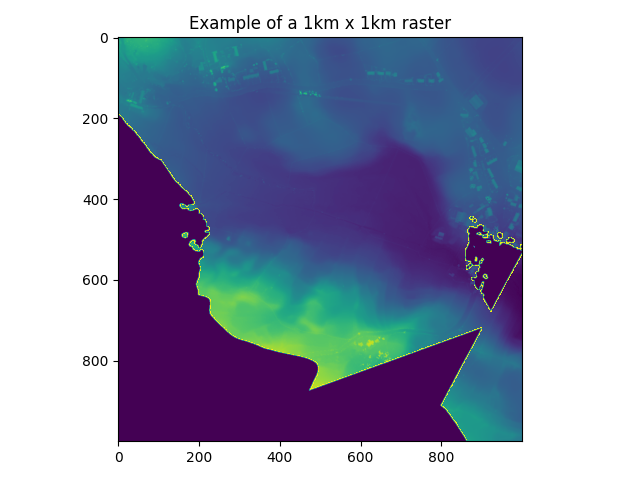
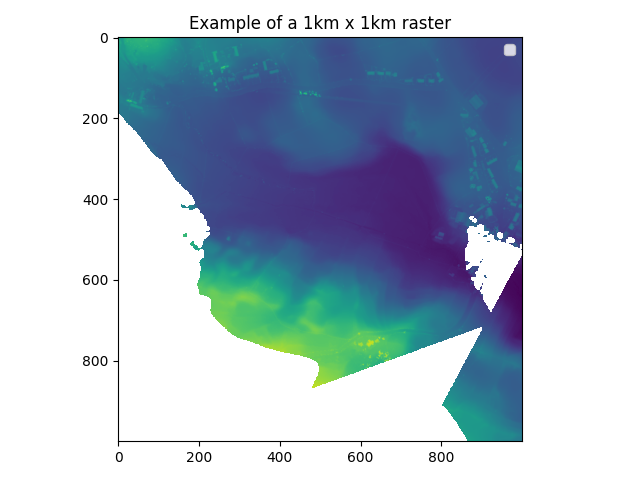
ok still have to publish with org

Changed region(s): [[0.1875, 0.25, 0.75, 0.9375], [0.7188, 0.4375, 0.8125, 0.6562], [0.7812, 0.0938, 0.8125, 0.125]]

diff --git a/_posts/2022-05-06-rasterio-gdal-s3.md b/_posts/2022-05-06-rasterio-gdal-s3.md
@@ -13,87 +13,66 @@ At SpotR, we make heavy use of rasterdata containing gridded height measurements
 <p>
 When working in <code>python</code>, the <a href="https://rasterio.readthedocs.io/en/latest/index.html"><code>rasterio</code></a> package is useful. This package is
 essentially a more pythonic binding to the GDAl library, as explained in their <a href="https://rasterio.readthedocs.io/en/latest/intro.html">
-introduction</a>.
+introduction</a>. The file below was obtained from <a href="https://data.gov.uk/dataset/f0db0249-f17b-4036-9e65-309148c97ce4/national-lidar-programme">data.gov.uk</a> and shows a 1x1km
+patch of height measurements in the UK. The resolution is 1000x1000 pixels,
+every pixel represents the (maximum) height of 1x1m. The lighter dots along the
+top of the image are houses, there are some ragged parts where there is no data.
+In the middle there is a depression, could be a riverbed, and then at the bottom
+the terrain is rising a little.
 </p>
 
 <div class="org-src-container">
-<pre class="src src-python"><span style="color: #b6a0ff;">import</span> rasterio
-<span style="color: #b6a0ff;">import</span> matplotlib.pyplot <span style="color: #b6a0ff;">as</span> plt
-<span style="color: #b6a0ff;">import</span> numpy <span style="color: #b6a0ff;">as</span> np
+<pre class="src src-python"><span style="color: #4f97d7; font-weight: bold;">import</span> rasterio
+<span style="color: #4f97d7; font-weight: bold;">import</span> matplotlib.pyplot <span style="color: #4f97d7; font-weight: bold;">as</span> plt
+<span style="color: #4f97d7; font-weight: bold;">import</span> numpy <span style="color: #4f97d7; font-weight: bold;">as</span> np
 
-<span style="color: #b6a0ff;">with</span> rasterio.<span style="color: #f78fe7;">open</span><span style="color: #ffffff;">(</span><span style="color: #79a8ff;">"/tmp/sd9863_DSM_1M.tiff"</span><span style="color: #ffffff;">)</span> <span style="color: #b6a0ff;">as</span> <span style="color: #00d3d0;">dataset</span>:
-   heights = dataset.read<span style="color: #ffffff;">(</span><span style="color: #00bcff;">1</span><span style="color: #ffffff;">)</span>
+<span style="color: #4f97d7; font-weight: bold;">with</span> rasterio.<span style="color: #4f97d7;">open</span><span style="color: #4f97d7;">(</span><span style="color: #2d9574;">"/tmp/sd9863_DSM_1M.tiff"</span><span style="color: #4f97d7;">)</span> <span style="color: #4f97d7; font-weight: bold;">as</span> <span style="color: #7590db;">dataset</span>:
+   heights = dataset.read<span style="color: #4f97d7;">(</span><span style="color: #a45bad;">1</span><span style="color: #4f97d7;">)</span>
 
-<span style="color: #00d3d0;">fn</span> = <span style="color: #79a8ff;">"images/heights.png"</span>
+<span style="color: #7590db;">fn</span> = <span style="color: #2d9574;">"images/heights.png"</span>
 
-<span style="color: #a8a8a8;"># </span><span style="color: #a8a8a8;">replace nodata values with nan</span>
-<span style="color: #00d3d0;">heights</span><span style="color: #ffffff;">[</span>np.where<span style="color: #ff62d4;">(</span>heights==dataset.nodata<span style="color: #ff62d4;">)</span><span style="color: #ffffff;">]</span> = np.nan
+<span style="color: #2aa1ae; background-color: #292e34;"># </span><span style="color: #2aa1ae; background-color: #292e34;">replace nodata values with nan</span>
+<span style="color: #7590db;">heights</span><span style="color: #4f97d7;">[</span>np.where<span style="color: #bc6ec5;">(</span>heights==dataset.nodata<span style="color: #bc6ec5;">)</span><span style="color: #4f97d7;">]</span> = np.nan
 
-plt.imshow<span style="color: #ffffff;">(</span>heights<span style="color: #ffffff;">)</span>
-plt.title<span style="color: #ffffff;">(</span><span style="color: #79a8ff;">"Example of a 1km x 1km raster"</span><span style="color: #ffffff;">)</span>
-plt.tight_layout<span style="color: #ffffff;">()</span>
-plt.savefig<span style="color: #ffffff;">(</span>fn<span style="color: #ffffff;">)</span>
+plt.imshow<span style="color: #4f97d7;">(</span>heights<span style="color: #4f97d7;">)</span>
+plt.title<span style="color: #4f97d7;">(</span><span style="color: #2d9574;">"Example of a 1km x 1km raster"</span><span style="color: #4f97d7;">)</span>
+plt.tight_layout<span style="color: #4f97d7;">()</span>
+plt.savefig<span style="color: #4f97d7;">(</span>fn<span style="color: #4f97d7;">)</span>
 fn
 </pre>
 </div>
 
-<div id="org9973fc0" class="figure">
+<div id="org18e4de7" class="figure">
 <p><img src="/assets/images/heights.png" alt="heights.png" />
 </p>
 </div>
 
 <p>
 Rastertiles, typically GeoTiff files, can become quite large in terms of memory
-size. This grid above takes up around <code>4Mb as an uncompressed GeoTiff file, down
-from 6.5Mb as a ~.asc</code> file, which is a simple text-based format. There are a
-couple of interesting compression techniques like <a href="https://en.wikipedia.org/wiki/Deflate">DEFLATE</a> and <a href="https://en.wikipedia.org/wiki/Lempel%E2%80%93Ziv%E2%80%93Welch">LZW</a> that can bring
-the size of the data down further.
+size. This grid above takes up \~4Mb as an uncompressed GeoTiff file, down from
+6.5Mb as a <code>.asc</code> file, which is a simple text-based format. There are a couple
+of interesting compression techniques like <a href="https://en.wikipedia.org/wiki/Deflate">DEFLATE</a> and <a href="https://en.wikipedia.org/wiki/Lempel%E2%80%93Ziv%E2%80%93Welch">LZW</a> that can bring the
+size of the data down further. It is possible to convert rasters with
+<code>rasterio</code>, but the <code>gdal_translate</code> utility is the tool for the job.
 </p>
 
 <div class="org-src-container">
 <pre class="src src-bash">gdal_translate /tmp/sd9863_DSM_1M.asc /tmp/sd9863_DSM_1M.tiff &gt; /dev/null
-gdal_translate /tmp/sd9863_DSM_1M.asc /tmp/sd9863_DSM_1M_lzw.tiff -co <span style="color: #00d3d0;">COMPRESS</span>=LZW &gt; /dev/null
-gdal_translate /tmp/sd9863_DSM_1M.asc /tmp/sd9863_DSM_1M_def.tiff -co <span style="color: #00d3d0;">COMPRESS</span>=DEFLATE &gt; /dev/null
-gdal_translate /tmp/sd9863_DSM_1M.asc /tmp/sd9863_DSM_1M_def_pred.tiff -co <span style="color: #00d3d0;">COMPRESS</span>=DEFLATE -co <span style="color: #00d3d0;">PREDICTOR</span>=<span style="color: #00bcff;">2</span> &gt; /dev/null
+gdal_translate /tmp/sd9863_DSM_1M.asc /tmp/sd9863_DSM_1M_lzw.tiff -co <span style="color: #7590db;">COMPRESS</span>=LZW &gt; /dev/null
+gdal_translate /tmp/sd9863_DSM_1M.asc /tmp/sd9863_DSM_1M_def.tiff -co <span style="color: #7590db;">COMPRESS</span>=DEFLATE &gt; /dev/null
+gdal_translate /tmp/sd9863_DSM_1M.asc /tmp/sd9863_DSM_1M_def_pred.tiff -co <span style="color: #7590db;">COMPRESS</span>=DEFLATE -co <span style="color: #7590db;">PREDICTOR</span>=<span style="color: #a45bad;">2</span> &gt; /dev/null
 ls -lha /tmp/sd*
 </pre>
 </div>
 
-<table border="2" cellspacing="0" cellpadding="6" rules="groups" frame="hsides">
-
-
-<colgroup>
-<col  class="org-left" />
-
-<col  class="org-left" />
-</colgroup>
-<tbody>
-<tr>
-<td class="org-left">-rw-rw-r&#x2013; 1 gijs gijs 6</td>
-<td class="org-left">5M mei  6 13:37 /tmp/sd9863<sub>DSM</sub><sub>1M.asc</sub></td>
-</tr>
-
-<tr>
-<td class="org-left">-rw-rw-r&#x2013; 1 gijs gijs 1</td>
-<td class="org-left">1M mei  6 16:45 /tmp/sd9863<sub>DSM</sub><sub>1M</sub><sub>def</sub><sub>pred.tiff</sub></td>
-</tr>
-
-<tr>
-<td class="org-left">-rw-rw-r&#x2013; 1 gijs gijs 1</td>
-<td class="org-left">5M mei  6 16:45 /tmp/sd9863<sub>DSM</sub><sub>1M</sub><sub>def.tiff</sub></td>
-</tr>
-
-<tr>
-<td class="org-left">-rw-rw-r&#x2013; 1 gijs gijs 1</td>
-<td class="org-left">8M mei  6 16:45 /tmp/sd9863<sub>DSM</sub><sub>1M</sub><sub>lzw.tiff</sub></td>
-</tr>
-
-<tr>
-<td class="org-left">-rw-rw-r&#x2013; 1 gijs gijs 3</td>
-<td class="org-left">9M mei  6 16:45 /tmp/sd9863<sub>DSM</sub><sub>1M.tiff</sub></td>
-</tr>
-</tbody>
-</table>
+<div class="org-src-container">
+<pre class="src src-bash">-rw-rw-r-- <span style="color: #a45bad;">1</span> gijs gijs <span style="color: #a45bad;">6,5M</span> jun <span style="color: #a45bad;">13</span>  <span style="color: #a45bad;">2018</span> /tmp/sd9863_DSM_1M.asc
+-rw-rw-r-- <span style="color: #a45bad;">1</span> gijs gijs <span style="color: #a45bad;">1,1M</span> mei  <span style="color: #a45bad;">9</span> <span style="color: #a45bad;">09:11</span> /tmp/sd9863_DSM_1M_def_pred.tiff
+-rw-rw-r-- <span style="color: #a45bad;">1</span> gijs gijs <span style="color: #a45bad;">1,5M</span> mei  <span style="color: #a45bad;">9</span> <span style="color: #a45bad;">09:11</span> /tmp/sd9863_DSM_1M_def.tiff
+-rw-rw-r-- <span style="color: #a45bad;">1</span> gijs gijs <span style="color: #a45bad;">1,8M</span> mei  <span style="color: #a45bad;">9</span> <span style="color: #a45bad;">09:11</span> /tmp/sd9863_DSM_1M_lzw.tiff
+-rw-rw-r-- <span style="color: #a45bad;">1</span> gijs gijs <span style="color: #a45bad;">3,9M</span> mei  <span style="color: #a45bad;">9</span> <span style="color: #a45bad;">09:11</span> /tmp/sd9863_DSM_1M.tiff
+</pre>
+</div>
 
 <p>
 Interestingly, all compression techniques available in <code>GDAL</code> are lossless.
@@ -120,90 +99,19 @@ cloud storage such as S3.
 </pre>
 </div>
 
-<table border="2" cellspacing="0" cellpadding="6" rules="groups" frame="hsides">
-
-
-<colgroup>
-<col  class="org-right" />
-
-<col  class="org-right" />
-
-<col  class="org-right" />
-
-<col  class="org-left" />
-</colgroup>
-<tbody>
-<tr>
-<td class="org-right">2022-04-29</td>
-<td class="org-right">23:08:55</td>
-<td class="org-right">2903641</td>
-<td class="org-left">sd9800<sub>DSM</sub><sub>1M.tiff</sub></td>
-</tr>
-
-<tr>
-<td class="org-right">2022-04-29</td>
-<td class="org-right">23:08:54</td>
-<td class="org-right">2871755</td>
-<td class="org-left">sd9801<sub>DSM</sub><sub>1M.tiff</sub></td>
-</tr>
-
-<tr>
-<td class="org-right">2022-04-29</td>
-<td class="org-right">23:08:54</td>
-<td class="org-right">2938302</td>
-<td class="org-left">sd9802<sub>DSM</sub><sub>1M.tiff</sub></td>
-</tr>
-
-<tr>
-<td class="org-right">2022-04-29</td>
-<td class="org-right">23:08:55</td>
-<td class="org-right">2719476</td>
-<td class="org-left">sd9803<sub>DSM</sub><sub>1M.tiff</sub></td>
-</tr>
-
-<tr>
-<td class="org-right">2022-04-29</td>
-<td class="org-right">23:08:55</td>
-<td class="org-right">2643684</td>
-<td class="org-left">sd9804<sub>DSM</sub><sub>1M.tiff</sub></td>
-</tr>
-
-<tr>
-<td class="org-right">2022-04-29</td>
-<td class="org-right">23:08:55</td>
-<td class="org-right">2533681</td>
-<td class="org-left">sd9805<sub>DSM</sub><sub>1M.tiff</sub></td>
-</tr>
-
-<tr>
-<td class="org-right">2022-04-29</td>
-<td class="org-right">23:08:55</td>
-<td class="org-right">2715498</td>
-<td class="org-left">sd9806<sub>DSM</sub><sub>1M.tiff</sub></td>
-</tr>
-
-<tr>
-<td class="org-right">2022-04-29</td>
-<td class="org-right">23:08:55</td>
-<td class="org-right">2818095</td>
-<td class="org-left">sd9807<sub>DSM</sub><sub>1M.tiff</sub></td>
-</tr>
-
-<tr>
-<td class="org-right">2022-04-29</td>
-<td class="org-right">23:08:55</td>
-<td class="org-right">2755601</td>
-<td class="org-left">sd9808<sub>DSM</sub><sub>1M.tiff</sub></td>
-</tr>
-
-<tr>
-<td class="org-right">2022-04-29</td>
-<td class="org-right">23:08:56</td>
-<td class="org-right">468739</td>
-<td class="org-left">sd9809<sub>DSM</sub><sub>1M.tiff</sub></td>
-</tr>
-</tbody>
-</table>
+<div class="org-src-container">
+<pre class="src src-bash"><span style="color: #a45bad;">2022-04-29</span>  <span style="color: #a45bad;">23:08:55</span>  <span style="color: #a45bad;">2903641</span>  sd9800_DSM_1M.tiff 
+<span style="color: #a45bad;">2022-04-29</span>  <span style="color: #a45bad;">23:08:54</span>  <span style="color: #a45bad;">2871755</span>  sd9801_DSM_1M.tiff 
+<span style="color: #a45bad;">2022-04-29</span>  <span style="color: #a45bad;">23:08:54</span>  <span style="color: #a45bad;">2938302</span>  sd9802_DSM_1M.tiff 
+<span style="color: #a45bad;">2022-04-29</span>  <span style="color: #a45bad;">23:08:55</span>  <span style="color: #a45bad;">2719476</span>  sd9803_DSM_1M.tiff 
+<span style="color: #a45bad;">2022-04-29</span>  <span style="color: #a45bad;">23:08:55</span>  <span style="color: #a45bad;">2643684</span>  sd9804_DSM_1M.tiff 
+<span style="color: #a45bad;">2022-04-29</span>  <span style="color: #a45bad;">23:08:55</span>  <span style="color: #a45bad;">2533681</span>  sd9805_DSM_1M.tiff 
+<span style="color: #a45bad;">2022-04-29</span>  <span style="color: #a45bad;">23:08:55</span>  <span style="color: #a45bad;">2715498</span>  sd9806_DSM_1M.tiff 
+<span style="color: #a45bad;">2022-04-29</span>  <span style="color: #a45bad;">23:08:55</span>  <span style="color: #a45bad;">2818095</span>  sd9807_DSM_1M.tiff 
+<span style="color: #a45bad;">2022-04-29</span>  <span style="color: #a45bad;">23:08:55</span>  <span style="color: #a45bad;">2755601</span>  sd9808_DSM_1M.tiff 
+<span style="color: #a45bad;">2022-04-29</span>  <span style="color: #a45bad;">23:08:56</span>   <span style="color: #a45bad;">468739</span>  sd9809_DSM_1M.tiff 
+</pre>
+</div>
 
 <p>
 When doing a calculation, we're typically not interested in the whole of the
@@ -220,23 +128,23 @@ benchmark this.
 </p>
 
 <div class="org-src-container">
-<pre class="src src-python"><span style="color: #b6a0ff;">import</span> rasterio
-<span style="color: #b6a0ff;">from</span> rasterio.windows <span style="color: #b6a0ff;">import</span> Window
+<pre class="src src-python"><span style="color: #4f97d7; font-weight: bold;">import</span> rasterio
+<span style="color: #4f97d7; font-weight: bold;">from</span> rasterio.windows <span style="color: #4f97d7; font-weight: bold;">import</span> Window
 
-<span style="color: #b6a0ff;">with</span> rasterio.<span style="color: #f78fe7;">open</span><span style="color: #ffffff;">(</span><span style="color: #79a8ff;">"s3://heights-tiles/tiles/sd9800_DSM_1M.tiff"</span><span style="color: #ffffff;">)</span> <span style="color: #b6a0ff;">as</span> <span style="color: #00d3d0;">raster</span>:
-  dt = raster.read<span style="color: #ffffff;">(</span><span style="color: #00bcff;">1</span>, window=Window<span style="color: #ff62d4;">(</span><span style="color: #00bcff;">500</span>, <span style="color: #00bcff;">500</span>, <span style="color: #00bcff;">501</span>, <span style="color: #00bcff;">501</span><span style="color: #ff62d4;">)</span><span style="color: #ffffff;">)</span>
+<span style="color: #4f97d7; font-weight: bold;">with</span> rasterio.<span style="color: #4f97d7;">open</span><span style="color: #4f97d7;">(</span><span style="color: #2d9574;">"s3://heights-tiles/tiles/sd9800_DSM_1M.tiff"</span><span style="color: #4f97d7;">)</span> <span style="color: #4f97d7; font-weight: bold;">as</span> <span style="color: #7590db;">raster</span>:
+  dt = raster.read<span style="color: #4f97d7;">(</span><span style="color: #a45bad;">1</span>, window=Window<span style="color: #bc6ec5;">(</span><span style="color: #a45bad;">500</span>, <span style="color: #a45bad;">500</span>, <span style="color: #a45bad;">501</span>, <span style="color: #a45bad;">501</span><span style="color: #bc6ec5;">)</span><span style="color: #4f97d7;">)</span>
 </pre>
 </div>
 
 <div class="org-src-container">
-<pre class="src src-bash"><span style="color: #b6a0ff;">time</span> python src/read_raster_window.py
+<pre class="src src-bash"><span style="color: #4f97d7; font-weight: bold;">time</span> python src/read_raster_window.py
 </pre>
 </div>
 
 <div class="org-src-container">
-<pre class="src src-bash">real    <span style="color: #00bcff;">0m17,300s</span>
-user    <span style="color: #00bcff;">0m3,026s</span>
-sys     <span style="color: #00bcff;">0m1,038s</span>                                        
+<pre class="src src-bash">real    <span style="color: #a45bad;">0m17,300s</span>
+user    <span style="color: #a45bad;">0m3,026s</span>
+sys     <span style="color: #a45bad;">0m1,038s</span>                                        
 </pre>
 </div>
 
@@ -249,14 +157,14 @@ more. We can disable this behaviour by setting an environment value.
 </p>
 
 <div class="org-src-container">
-<pre class="src src-bash"><span style="color: #b6a0ff;">time</span> <span style="color: #00d3d0;">GDAL_DISABLE_READDIR_ON_OPEN</span>=YES python src/read_raster_window.py
+<pre class="src src-bash"><span style="color: #4f97d7; font-weight: bold;">time</span> <span style="color: #7590db;">GDAL_DISABLE_READDIR_ON_OPEN</span>=YES python src/read_raster_window.py
 </pre>
 </div>
 
 <div class="org-src-container">
-<pre class="src src-bash">real    <span style="color: #00bcff;">0m1,230s</span>
-user    <span style="color: #00bcff;">0m0,400s</span>
-sys     <span style="color: #00bcff;">0m0,948s</span>
+<pre class="src src-bash">real    <span style="color: #a45bad;">0m1,230s</span>
+user    <span style="color: #a45bad;">0m0,400s</span>
+sys     <span style="color: #a45bad;">0m0,948s</span>
 </pre>
 </div>
 </div>
